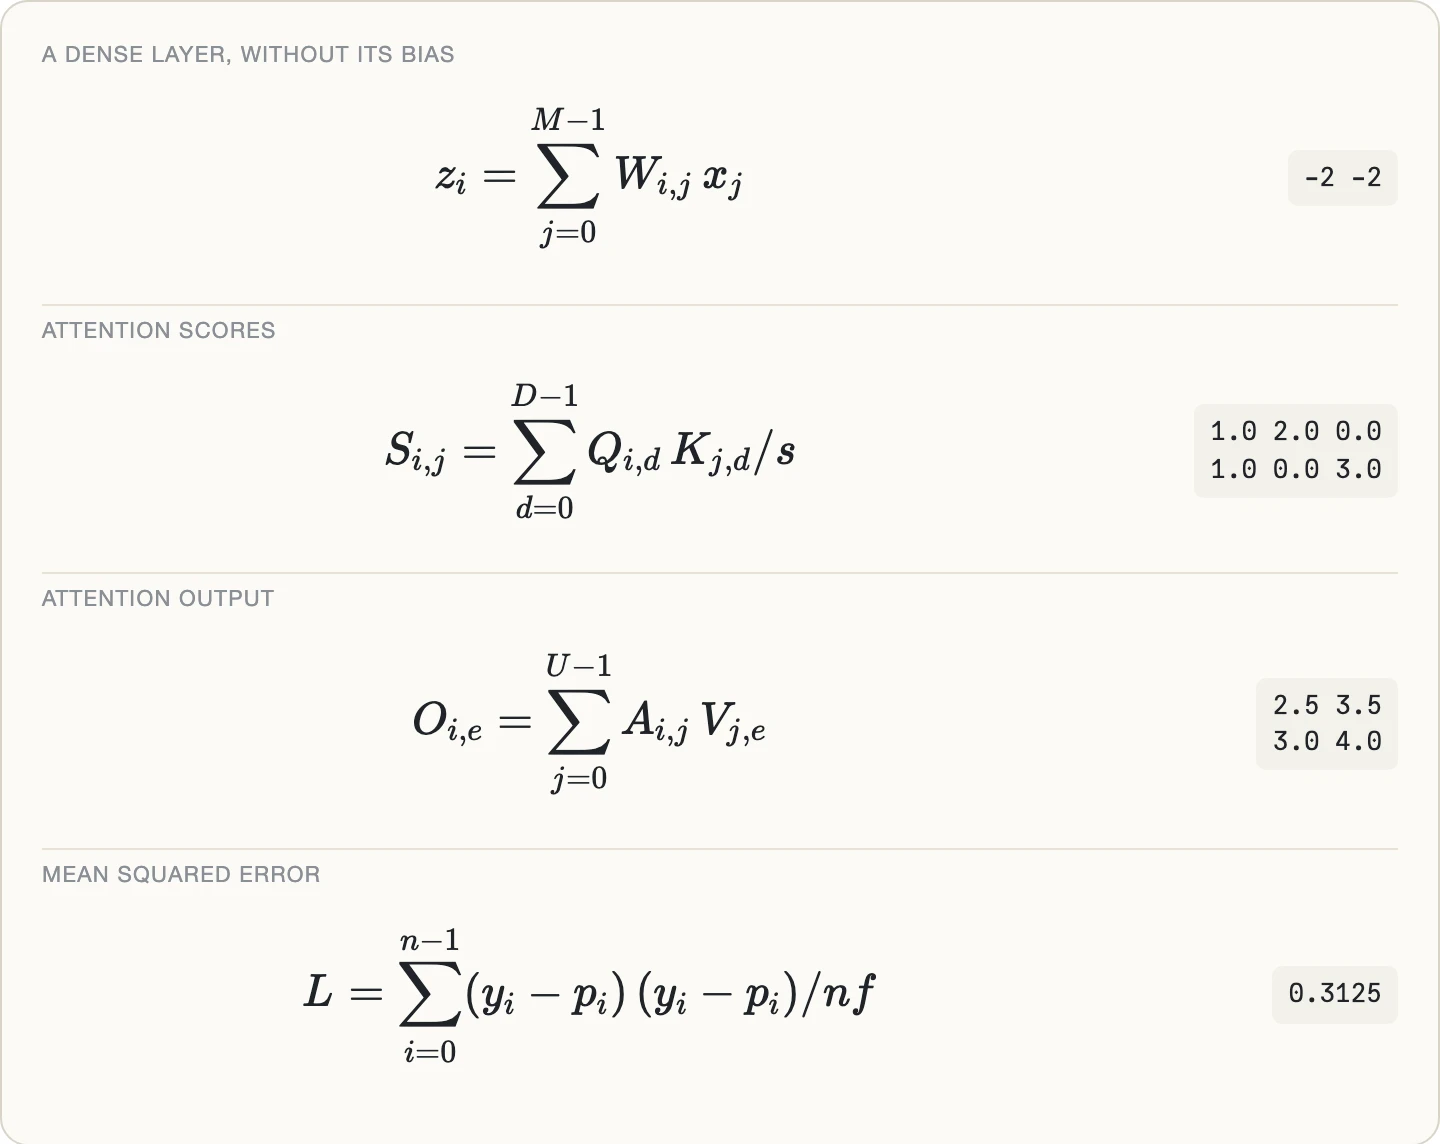
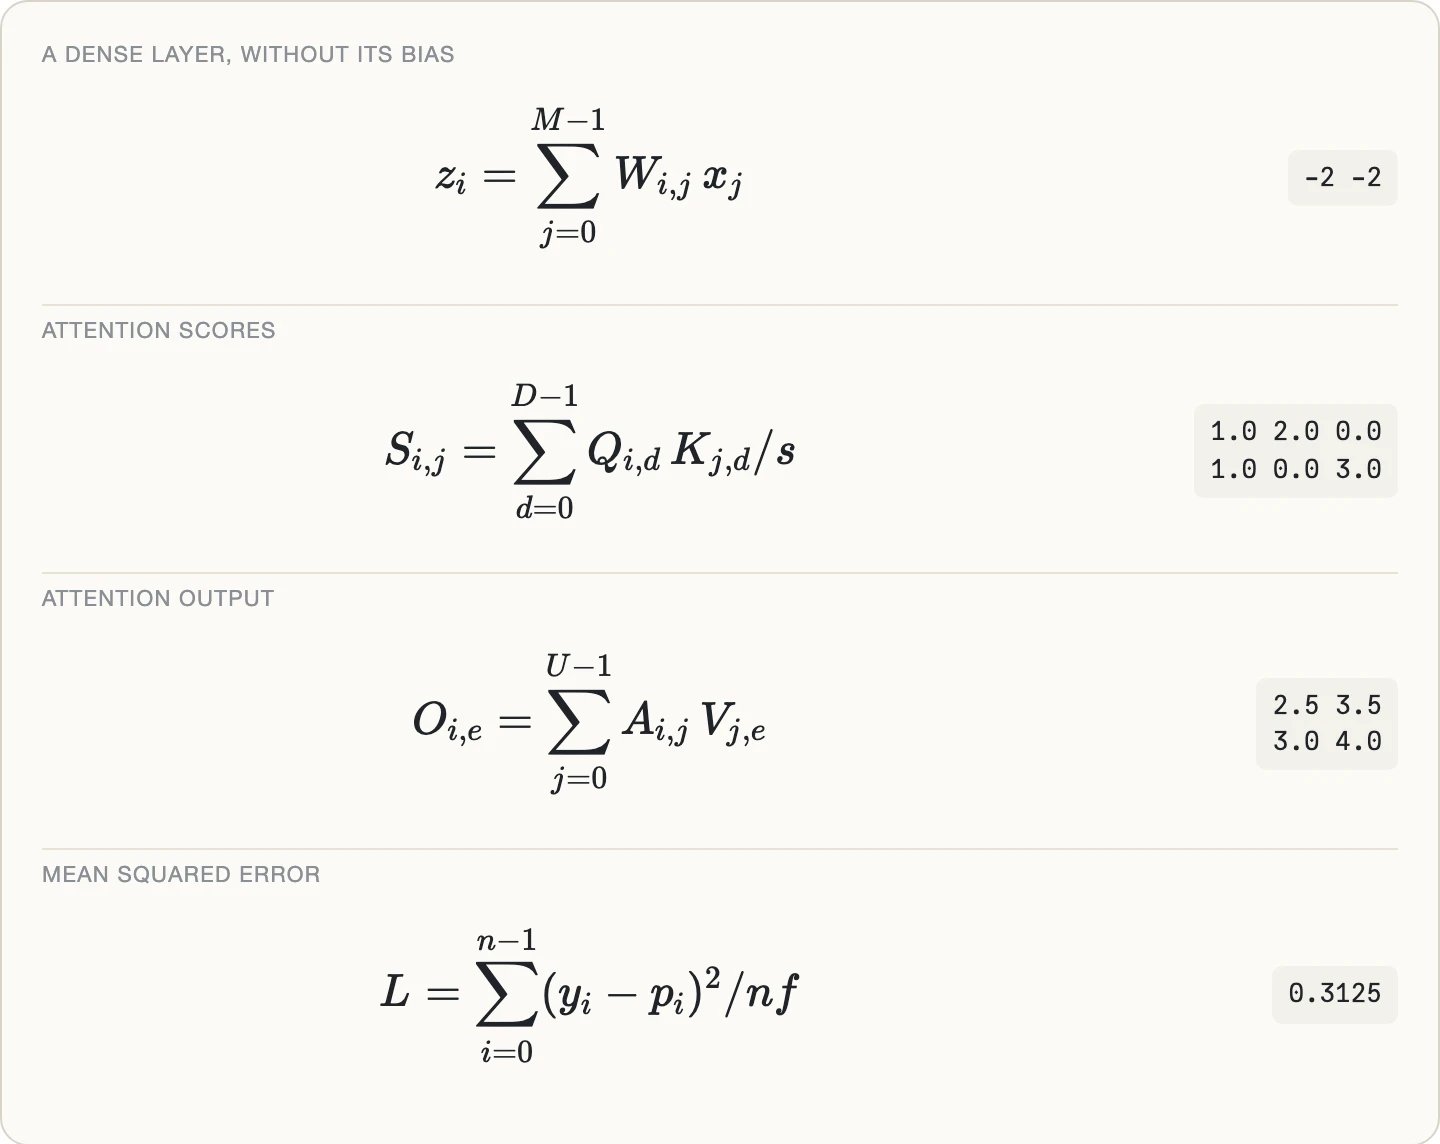
Array Languages #11 draft: MSE with ^2; the silent-answer bug and its fix

Changed region(s): [[0.2188, 0.7955, 0.625, 0.9484]]

diff --git a/_drafts/array-languages-xetal-equations.md b/_drafts/array-languages-xetal-equations.md
@@ -26,6 +26,9 @@ repo_urls:
      2026-10-16 evening (Mike relayed the X_eTaL agent): the library moves to X_eTaL-libraries as libs/Equations (Equations.xtlm),
      imported "e:" u_se< "Equations"; new saga there: XETAL_COMMIT bump (needs []G_ENSYM, raw strings), oracle, capture, lowering,
      latex + README/docs/demo/catalog. X_eTaL keeps the integrals plan, a canary macro library, the shape lint, the docs.
+     2026-10-17 10:00: MSE uses ^2 (fixed reader ed91e6d, run from a clean export of origin/main). NOT YET: libraries' uncommitted
+     'whole equations' (09:51: (sum ...) + b[i], / sqrt(d), prod max min, exp log sqrt abs, \frac \sqrt, reprint check): redo the
+     four-equation figure from it once committed (dense with bias, attention with 1/sqrt d, MSE as printed, softmax, max pooling).
      2026-10-17: the four ML equations (dense, attention scores/output, MSE) ran with the pinned xetal; outputs checked by hand;
      forms that are wrong today (^ in a summand: silent wrong answer) are NOT shown; gaps written up for the X_eTaL agents.
      2026-10-17: Equations DONE in X_eTaL-libraries (saga 12: be0f5b9 pin, 8197d52 oracle, 09143d8 capture, cb430d5 lowering,
@@ -208,7 +211,7 @@ error[index]: X axis 1: index 2 is outside 0..1 (from c)
 ## Beyond the CNN
 
 <figure class="zoomable" style="float: right; clear: both; margin: 0.2em 0 0.6em 1.5em; max-width: 46%;">
-<img src="{{ '/assets/images/posts/xetal-eq-four.webp' | relative_url }}" class="no-invert" alt="Four equations typeset from the LaTeX the macro returned, each with its result: a dense layer without its bias, z sub i equals the sum over j of W sub i,j x sub j, giving -2 -2; attention scores, S sub i,j equals the sum over d of Q sub i,d K sub j,d over s, giving 1 2 0 and 1 0 3; attention output, O sub i,e equals the sum over j of A sub i,j V sub j,e, giving 2.5 3.5 and 3 4; mean squared error, L equals the sum over i of (y sub i minus p sub i) times (y sub i minus p sub i) over nf, giving 0.3125">
+<img src="{{ '/assets/images/posts/xetal-eq-four.webp' | relative_url }}" class="no-invert" alt="Four equations typeset from the LaTeX the macro returned, each with its result: a dense layer without its bias, z sub i equals the sum over j of W sub i,j x sub j, giving -2 -2; attention scores, S sub i,j equals the sum over d of Q sub i,d K sub j,d over s, giving 1 2 0 and 1 0 3; attention output, O sub i,e equals the sum over j of A sub i,j V sub j,e, giving 2.5 3.5 and 3 4; mean squared error, L equals the sum over i of (y sub i minus p sub i) squared over nf, giving 0.3125">
 <figcaption style="font-size: 0.85em;">Four more equations, typeset from the macro's own LaTeX, with what each computed. Click to enlarge.</figcaption>
 </figure>
 
@@ -218,7 +221,7 @@ The convolution is the hardest case, three sums and arithmetic in the subscripts
 (z, tz) ← "z[i] | N" ᵉb̲oth< "sum j:=0..M - 1 | W[i,j] * x[j]"
 (S, tS) ← "S[i,j] | T U" ᵉb̲oth< "sum d:=0..D - 1 | Q[i,d] * K[j,d] / s"
 (O, tO) ← "O[i,e] | T E" ᵉb̲oth< "sum j:=0..U - 1 | A[i,j] * V[j,e]"
-(L, tL) ← "L[] | " ᵉb̲oth< "sum i:=0..n - 1 | (y[i] - p[i]) * (y[i] - p[i]) / nf"
+(L, tL) ← "L[] | " ᵉb̲oth< "sum i:=0..n - 1 | (y[i] - p[i])^2 / nf"
 ```
 
 - **A dense layer,** the weights `W` times the input `x`, the core of every fully connected layer.
@@ -226,7 +229,7 @@ The convolution is the hardest case, three sums and arithmetic in the subscripts
 - **Attention output,** the attention weights `A` applied to the values `V`.
 - **Mean squared error,** the average squared difference between targets `y` and predictions `p`. Its result has no free indices, `L[]`, so it is a single number; `nf` is `n` as a float.
 
-The figure shows what each call returned: the LaTeX, typeset, and the value, each checked by hand. They also show where the notation stops today. A paper would write the attention scale as a fraction, `1/√d` in front of the sum, the error with a square and `1/n` in front, and the dense layer with its bias added after the sum. The macro takes only `sum`, and only one summand, so the scale and the average go inside the sum, the square is written as a product, the bias waits for a second step, and the LaTeX shows them exactly as written. The answers are right; the next round of the library is to make the notation match the paper too.
+The figure shows what each call returned: the LaTeX, typeset, and the value, each checked by hand. They also show where the notation stops today. A paper would write the attention scale as a fraction, `1/√d` in front of the sum, the error's `1/n` in front of its sum, and the dense layer with its bias added after the sum. The macro takes only `sum`, and only one summand, so the scale and the average go inside the sum, the bias waits for a second step, and the LaTeX shows them exactly as written. Powers are in: `^` binds tightest, a tower of powers is read from the top as math reads it, so `2^3^2` is 512, and the power comes before a minus sign, so `-2^2` is −4. The answers are right; the next round of the library is to make the notation match the paper too.
 
 <div style="clear: both;"></div>
 
@@ -242,7 +245,9 @@ The call's form was not the first idea. The design compares seven ways of writin
 
 ## What comes next
 
-The library went from plan to finished in one evening, in five steps, each with its tests first: moving its copy of X_eTaL up to the current language, for fresh names and raw strings; the oracle; reading the call, with the rejections; the lowering, with the checks; and the LaTeX, with the demo and the documentation. Then I asked for readable expansions: the macro now lays its expansion out as a program, as shown above, and `xetal expand` now does the same for every macro. And one name changed before this post: the value macro was `q_<`, which read as "eq" only beside the alias `e:`. Since the alias is the caller's choice, it is now `e_q<`, which reads as "eq" under any alias, like its siblings `t_ex<` and `b_oth<`. Macros also had a bug, which I hit in X_eTaL's live demo: with its Boxed display on, every macro call in every program failed, because a macro's expansion went through the same printer as the program's output and came back drawn as a box instead of as source. That is fixed, with tests that were red before the fix.
+The library went from plan to finished in one evening, in five steps, each with its tests first: moving its copy of X_eTaL up to the current language, for fresh names and raw strings; the oracle; reading the call, with the rejections; the lowering, with the checks; and the LaTeX, with the demo and the documentation. Writing this post found a real bug, the worst kind: three summands that gave wrong answers with no error. `(y[i] - p[i])^2` summed `y - p`, and `y[i]2` and `y[i] % 2` summed `y`, while the LaTeX printed what was written. The reader had used part of its text and dropped the rest. It was fixed the same morning: every rule of the grammar now uses all of its text or refuses the call, only the grammar's own characters may appear, and `^` joined the grammar. Each of the three is now a test, and a function call such as `exp(y[i])`, not in the grammar yet, is refused rather than guessed at.
+
+Then I asked for readable expansions: the macro now lays its expansion out as a program, as shown above, and `xetal expand` now does the same for every macro. And one name changed before this post: the value macro was `q_<`, which read as "eq" only beside the alias `e:`. Since the alias is the caller's choice, it is now `e_q<`, which reads as "eq" under any alias, like its siblings `t_ex<` and `b_oth<`. Macros also had a bug, which I hit in X_eTaL's live demo: with its Boxed display on, every macro call in every program failed, because a macro's expansion went through the same printer as the program's output and came back drawn as a box instead of as source. That is fixed, with tests that were red before the fix.
 
 Still ahead for equations: the parts deliberately left out, padding, strides and dilation for convolutions, and a shape check that catches a wrong shape before a program runs rather than after, which is being built in X_eTaL now. Anything a macro cannot cover is reviewed and decided, never assumed.
 
